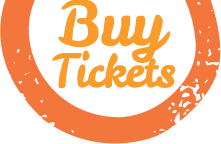
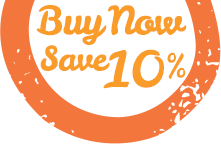
Hpsterns changes from the server

Changed region(s): [[0.1629, 0.0, 0.8416, 0.6111]]

diff --git a/page-dining.php b/page-dining.php
@@ -29,12 +29,12 @@ get_header(); ?>
 						<span class="font-lecker">Brunch</span>
 					</div>
 					<p class="parque-text-color--bluedark parque-body--sm dining-body">
-						Enjoy a wide variety of your favorite breakfast and lunch items, made to order. With everything from a true American Breakfast to a lobster benedict and homemade hamburgers to lobster tacos and all your Mexican favorites, our menu will satisfy even the pickiest eaters. We even have chicken fingers and mac ‘n cheese for the little ones. For those who buy a park pass, a limited selection is also offered as a complimentary snack menu.
+						Breakfast is served until noon in paradise. Enjoy the morning and take in the breathtaking Caribbean waters that stretch from our rustic pier towards the shores of Cancún. A delectable breakfast menu that mixes local classics with strong seafood influences.
 					</p>
 					<p class="parque-text-color--bluedark dining-pricing">
-						Open Daily:  8:00AM - 4:00PM
+						Open Daily:  8:00AM - NOON
 					</p>
-					<a class="parque-h3 btn-cta btn-cta--din-standalone" href="http://casasuenos.com/wp-content/themes/casasuenos/pdfs/ParqueSuenos_BarGrill_BrunchMenu.pdf">BRUNCH MENU</a>
+					<a target="_blank" class="parque-h3 btn-cta btn-cta--din-standalone" href="http://casasuenos.com/wp-content/themes/casasuenos/pdfs/ParqueSuenos_Brunch_Menu.pdf">BRUNCH MENU</a>
 				</div>
 			</div>
 		</div>
@@ -52,7 +52,7 @@ get_header(); ?>
 						Our fully stocked bar wraps around to serve our swim-up guests as well as those on dry land. If the ocean view isn’t enough for you, we feature all the American sports channels so you can watch your favorite teams while taking comfort – win or lose – in a delicious cocktail or cold beer in the soothing shade of our palapa.
 					</p>
 					<p class="parque-text-color--bluedark dining-pricing">
-						Open Daily:  8:00AM - 4:00PM
+						Open Daily:  8:00AM - 9:00PM
 					</p>
 				</div>
 			</div>
@@ -65,15 +65,15 @@ get_header(); ?>
 				<div class="casa-col--bg casa-col--40p"></div>
 				<div class="casa-col--text casa-col--right casa-col--60p blue-on-white padding--top-0">
 					<div class="parque-h2 parque-text-color--blue">
-						<span class="font-lecker">Dinner at </span>Rêves
+						<span class="font-lecker">Dinner at </span>Black Cat BBQ
 					</div>
 					<p class="parque-text-color--bluedark parque-body--sm dining-body">
-						Reves is the newest culinary triumph of Ramon, the Head Chef for Casa de los Sueños. Sample incredible contemporary fusion plates with influences across the Caribbean, Yucatan, and beyond. Dishes are created with the finest ingredients, freshest seafood, and choicest cuts. The top spot to enjoy the evening ocean and lifestyle on the southern end of the island. 
+						Black Cat BBQ brings gourmet BBQ to the island. Our brisket, chicken, pork, and ribs are exquisitely smoked with zapote logs, giving each plate a rich, local flair. Rounded out with locally-sourced seafood and generous dinner salads. Black Cat is the top spot to enjoy the evening ocean and lifestyle on the southern end of the island.
 					</p>
 					<p class="parque-text-color--bluedark dining-pricing">
-						Open Daily:  5:30PM - 10:00PM
+						Open Daily:  11:00AM - 9:00PM
 					</p>
-					<a class="parque-h3 btn-cta btn-cta--din-standalone" href="http://casasuenos.com/wp-content/themes/casasuenos/pdfs/Reves-Menus.pdf">Rêves MENU</a>
+					<a target="_blank"class="parque-h3 btn-cta btn-cta--din-standalone" href="http://casasuenos.com/wp-content/themes/casasuenos/pdfs/Black_Cat_BBQ_and_Seafood_Grill.pdf">Black Cat BBQ MENU</a>
 				</div>
 			</div>
 		</div>
@@ -91,7 +91,7 @@ get_header(); ?>
 						For a truly special experience, inquire about our sunset pier dinners. Available after 5pm at the end of our pier, enjoy a private evening of romance and a menu custom tailored to your desires. Reservations highly recommended.
 					</p>
 					<p class="parque-text-color--bluedark dining-pricing">
-						Open Daily:  5:30PM - 10:00PM
+						Open Daily:  5:00PM - 9:00PM
 					</p>
 				</div>
 			</div>

diff --git a/page-tickets.php b/page-tickets.php
@@ -44,10 +44,10 @@ get_header(); ?>
 			<!--  -->
 			<tr>
 				<td>
-					<p class="parque-body">Single Day General Admission</p>
+					<p class="parque-body">Single Day Adult Admission</p>
 				</td>
 				<td>
-					<p class="parque-body">$59.00 USD</p>
+					<p class="parque-body">$60.00 USD</p>
 				</td>
 				<td>
 					<a class="parque-body font-lecker" href="https://parque.webconnex.com/tickets" target="_blank">Buy Now Save 10%</a>
@@ -56,10 +56,10 @@ get_header(); ?>
 			<!--  -->
 			<tr>
 				<td>
-					<p class="parque-body">Two Day General Admission</p>
+					<p class="parque-body">Single Day Under 12 Admission</p>
 				</td>
 				<td>
-					<p class="parque-body">$95.00 USD</p>
+					<p class="parque-body">$45.00 USD</p>
 				</td>
 				<td>
 					<a class="parque-body font-lecker" href="https://parque.webconnex.com/tickets" target="_blank">Buy Now Save 10%</a>
@@ -121,6 +121,18 @@ get_header(); ?>
 				</td>
 				<td>
 					<p class="parque-body">$45.00 USD</p>
+				</td>
+				<td>
+					<a class="parque-body font-lecker" href="https://parque.webconnex.com/tickets" target="_blank">Buy Now Save 10%</a>
+				</td>
+			</tr>
+			<!--  -->
+			<tr>
+				<td>
+					<p class="parque-body">Half Day Under 12 Admission </p>
+				</td>
+				<td>
+					<p class="parque-body">$35.00 USD</p>
 				</td>
 				<td>
 					<a class="parque-body font-lecker" href="https://parque.webconnex.com/tickets" target="_blank">Buy Now Save 10%</a>

diff --git a/footer.php b/footer.php
@@ -29,6 +29,15 @@
 </div><!-- #page -->
 
 <?php wp_footer(); ?>
+<script>
+  (function(i,s,o,g,r,a,m){i['GoogleAnalyticsObject']=r;i[r]=i[r]||function(){
+  (i[r].q=i[r].q||[]).push(arguments)},i[r].l=1*new Date();a=s.createElement(o),
+  m=s.getElementsByTagName(o)[0];a.async=1;a.src=g;m.parentNode.insertBefore(a,m)
+  })(window,document,'script','//www.google-analytics.com/analytics.js','ga');
 
+  ga('create', 'UA-59047003-1', 'auto');
+  ga('send', 'pageview');
+
+</script>
 </body>
 </html>
